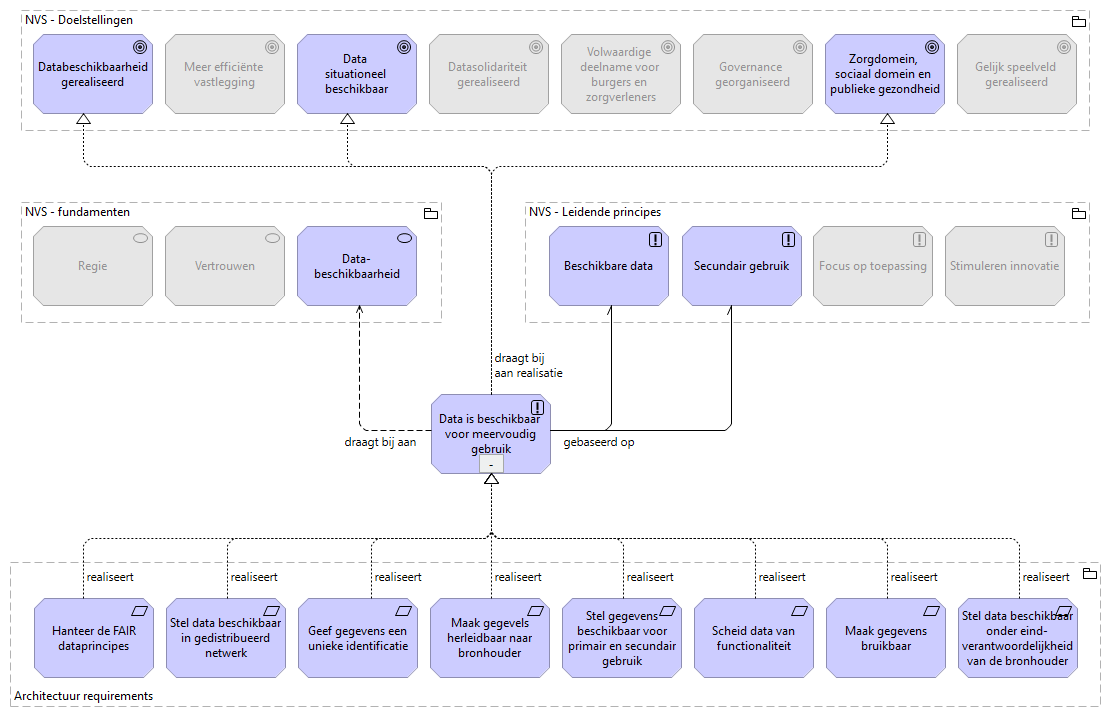
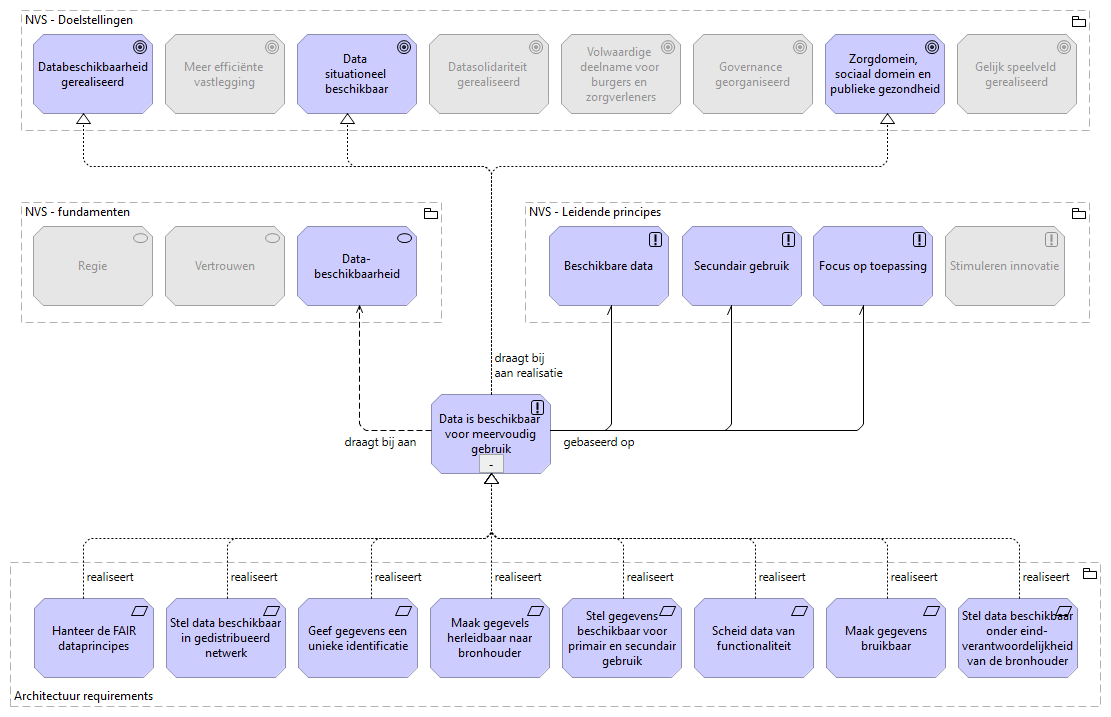
update

Changed region(s): [[0.7345, 0.3068, 0.8569, 0.4296]]

diff --git a/docs/id-2079863d8f734e75a72ec04631d1d512/elements/model.html b/docs/id-2079863d8f734e75a72ec04631d1d512/elements/model.html
@@ -143,11 +143,11 @@
 										dataFoldersContent.push({folderid:"id-45ab5d92025e4c30aed5594f7418aa3f", contentid:"id-9ea5a596cbb647c09b7f8137330e3a77", contenttype:"Folder"});
 										dataFolders.push({id:"id-9ea5a596cbb647c09b7f8137330e3a77", type:"Folder", name:decodeURL("Fundamenten"), documentation:decodeURL("")});
 											dataFoldersContent.push({folderid:"id-9ea5a596cbb647c09b7f8137330e3a77", contentid:"id-32714f74a5b14c5eb363e0e6f0a00e83", contenttype:"Value"});
-												dataElements.push({id:"id-32714f74a5b14c5eb363e0e6f0a00e83", type:"Value", specialization:decodeURL(""), name:decodeURL("Regie"), documentation:decodeURL("Regie+gaat+over+het+vermogen+te+sturen%2C+de+leiding+te+hebben+en+belangrijke+beslissingen+te+nemen.+Dit+is+nodig+om+de+ontwikkeling+van+het+gezondheidsinformatiestelsel+gericht+vorm+te+geven+en+het+vertrouwen+hierin+te+laten+groeien.+Burgers+en+zorgverleners+worden+geholpen+in+het+maken+van+bindende+en+samenhangende+afspraken+over+de+verschillende+gebruiksdoelen.+Goede+afspraken+leiden+tot+%28her%29gebruik+van+data.+Open+specificaties%2C+zoals+standaarden+en+normen%2C+vormen+de+inhoud+van+deze+afspraken.+Zo+nodig+worden+afspraken+in+een+wet+opgenomen.+Het+is+daarbij+van+belang+dat%3A%0D%0A%0D%0A-+Gebruikers+van+data+bekend+zijn+met+de+spelregels+waardoor+vertrouwen+geborgd+is%3B%0D%0A-+Afspraken+eenduidig%2C+inzichtelijk+en+geborgd+zijn+in+het+gezondheidsinformatiestelsel%3B%0D%0A-+Transparantie+en+controle+over+het+hebben+van+data%2C+het+delen+van+data+en+het+gebruik+ervan+zijn+georganiseerd%3B%0D%0A-+Effectieve%2C+gebruiksgerichte+toepassingen+worden+ontwikkeld+op+basis+van+open+specificaties.%0D%0A%0D%0ANaleving+en+totstandkoming+van+de+gewenste+afspraken+wordt+geborgd+op+het+juiste+niveau+%28sectoraal%2C+lokaal%2C+regionaal%2C+landelijk%2C+Europees+of+wereldwijd%29.+Regie+kan+dan+ook+niet+bestaan+zonder+governance.+Governance+gaat+over+rollen%2C+taken+en+verantwoordelijkheden.+Bij+de+ontwikkeling+van+het+gezondheidsinformatiestelsel+ontwikkelt+de+governance+zich+mee.+De+governance+weerspiegelt+enerzijds+het+zorgstelsel.+Anderzijds+zijn+specifieke+entiteiten+nodig+vanuit+de+ontwikkeling+van+het+gezondheidsinformatiestelsel+en+de+taken+die+daarvoor+nodig+zijn.+Een+heldere+en+daadkrachtige+governance+die+%28be%29sturing+en+leidinggeeft+aan+de+inrichting+en+ontwikkeling+van+het+gezondheidsinformatiestelsel+is+noodzakelijk.%0D%0A%0D%0ABron%3A+https%3A%2F%2Fwww.rijksoverheid.nl%2Fdocumenten%2Fpublicaties%2F2023%2F03%2F31%2Fnationale-visie-en-strategie-gezondheidsinformatiestelsel")});
+												dataElements.push({id:"id-32714f74a5b14c5eb363e0e6f0a00e83", type:"Value", specialization:decodeURL(""), name:decodeURL("Regie"), documentation:decodeURL("Regie+gaat+over+het+vermogen+te+sturen%2C+de+leiding+te+hebben+en+belangrijke+beslissingen+te+nemen.+Dit+is+nodig+om+de+ontwikkeling+van+het+gezondheidsinformatiestelsel+gericht+vorm+te+geven+en+het+vertrouwen+hierin+te+laten+groeien.+Burgers+en+zorgverleners+worden+geholpen+in+het+maken+van+bindende+en+samenhangende+afspraken+over+de+verschillende+gebruiksdoelen.+Goede+afspraken+leiden+tot+%28her%29gebruik+van+data.+Open+specificaties%2C+zoals+standaarden+en+normen%2C+vormen+de+inhoud+van+deze+afspraken.+Zo+nodig+worden+afspraken+in+een+wet+opgenomen.+Het+is+daarbij+van+belang+dat%3A%0D%0A%0D%0ABron%3A+https%3A%2F%2Fwww.rijksoverheid.nl%2Fdocumenten%2Fpublicaties%2F2023%2F03%2F31%2Fnationale-visie-en-strategie-gezondheidsinformatiestelsel")});
 											dataFoldersContent.push({folderid:"id-9ea5a596cbb647c09b7f8137330e3a77", contentid:"id-33e201ad5dea485fb675f42dced492aa", contenttype:"Value"});
-												dataElements.push({id:"id-33e201ad5dea485fb675f42dced492aa", type:"Value", specialization:decodeURL(""), name:decodeURL("Vertrouwen"), documentation:decodeURL("Zorgverleners+leveren+zorg+vanuit+een+afhankelijkheidsrelatie+met+de+pati%C3%ABnt+of+cli%C3%ABnt+en+daarin+is+vertrouwen+van+cruciaal+belang.+Vertrouwen+is+daarom+ook+een+belangrijk+fundament+van+het+gezondheidsinformatiestelsel.+Daarin+is+vertrouwen+tweeledig%3A+het+gaat+om+vertrouwen+in+elkaar+en+vertrouwen+in+de+kwaliteit+van+data+%28betrouwbaarheid%29.%0D%0A%0D%0AVertrouwen+betekent+dat+personen+en+partijen+elkaar+vertrouwen+en+vertrouwen+hebben+in+het+zorgproces.+Bij+goede+zorg+is+er+sprake+van+vertrouwen+tussen+burger+en+zorgverlener+en+tussen+zorgverleners+onderling.+Netwerkzorg+vergt+dat+het+vertrouwen+tussen+burger+en+zorgverlener+er+ook+buiten+het+directe+contact+moet+zijn.+Namelijk+in+het+gehele+netwerk+van+de+zorg+rondom+die+burger+en+niet+alleen+in+een+individuele+zorgverlener+of+zorgaanbieder.%0D%0A%0D%0ABetrouwbaarheid+gaat+over+het+vertrouwen+in+de+data+zelf.+Over+vertrouwen+in+de+kwaliteit+van+data+en+adequate+toepassing+hiervan+binnen+applicaties.+Het+ontbreken+van+vertrouwen+in+de+data+leidt+tot+onvoldoende+gebruik%2C+wat+het+leveren+van+passende+zorg+belemmert.+Vertrouwen+in+data+vraagt+om+passende+standaarden%2C+zodat+door+eenheid+van+taal+en+eenheid+van+techniek+iedere+gebruiker+en+iedere+toepassing+kan+vertrouwen+op+de+juistheid+van+de+data.+Een+goede+met+waarborgen+omgeven+architectuur+voor+het+delen+van+data+kan+de+verdere+ontwikkeling+van+digitale+toepassingen+faciliteren.%0D%0A%0D%0ABron%3A+https%3A%2F%2Fwww.rijksoverheid.nl%2Fdocumenten%2Fpublicaties%2F2023%2F03%2F31%2Fnationale-visie-en-strategie-gezondheidsinformatiestelsel")});
+												dataElements.push({id:"id-33e201ad5dea485fb675f42dced492aa", type:"Value", specialization:decodeURL(""), name:decodeURL("Vertrouwen"), documentation:decodeURL("Zorgverleners+leveren+zorg+vanuit+een+afhankelijkheidsrelatie+met+de+pati%C3%ABnt+of+cli%C3%ABnt+en+daarin+is+vertrouwen+van+cruciaal+belang.+Vertrouwen+is+daarom+ook+een+belangrijk+fundament+van+het+gezondheidsinformatiestelsel.+Daarin+is+vertrouwen+tweeledig%3A+het+gaat+om+vertrouwen+in+elkaar+en+vertrouwen+in+de+kwaliteit+van+data+%28betrouwbaarheid%29.%0D%0A%0D%0ABron%3A+https%3A%2F%2Fwww.rijksoverheid.nl%2Fdocumenten%2Fpublicaties%2F2023%2F03%2F31%2Fnationale-visie-en-strategie-gezondheidsinformatiestelsel")});
 											dataFoldersContent.push({folderid:"id-9ea5a596cbb647c09b7f8137330e3a77", contentid:"id-627a686420d64655957391a51ac7670e", contenttype:"Value"});
-												dataElements.push({id:"id-627a686420d64655957391a51ac7670e", type:"Value", specialization:decodeURL(""), name:decodeURL("Data-+beschikbaarheid"), documentation:decodeURL("Gezondheidsdata+moet+beschikbaar+zijn+voor+gebruik.+Databeschikbaarheid+omvat+het+beschikbaar%2C+bereikbaar+en+bruikbaar+hebben+van+vastgelegde+gezondheidsdata+van+de+specifieke+informatiebehoefte%2C+met+als+achterliggend+doel+deze+in+te+zetten+voor+preventie%2C+zorg+en+welzijn.+Dit+ten+behoeve+van+alle+vormen+van+%28her%29gebruik%2C+zorgproces-+en+usecase-onafhankelijk+met+nadrukkelijke+waarborgen+voor+pati%C3%ABntveiligheid+en+privacy.+Dit+betreft%3A%0D%0A%0D%0A-+Hergebruik+in+het+primaire+proces%2C+zodat+zorgverleners+benodigde+data+in+het+zorgproces+ook+direct+tot+hun+beschikking+hebben.%0D%0A-+Hergebruik+in+het+secundair+proces%2C+zodat+onderzoekers+op+een+toegankelijke+manier+grote+hoeveelheden+data+tot+hun+beschikking+hebben+en+zodat+beleidsverantwoordelijken+laagdrempelig+inzicht+hebben+in+de+effecten+van+het+gevoerde+beleid%2C+waardoor+adequate+sturing+mogelijk+is.%0D%0A-+Hergebruik+ten+behoeve+van+gezondheid+en+preventie+zodat+burgers%2C+onderzoekers+stelselverantwoordelijken%2C+wettelijke+partijen+en+zorgverleners+%28eigen%29+gezondheidsdata+kunnen+gebruiken+ter+verbetering+van+persoonlijke+en+%28volks%29gezondheid.%0D%0A%0D%0ABron%3A+https%3A%2F%2Fwww.rijksoverheid.nl%2Fdocumenten%2Fpublicaties%2F2023%2F03%2F31%2Fnationale-visie-en-strategie-gezondheidsinformatiestelsel")});
+												dataElements.push({id:"id-627a686420d64655957391a51ac7670e", type:"Value", specialization:decodeURL(""), name:decodeURL("Data-+beschikbaarheid"), documentation:decodeURL("Gezondheidsdata+moet+beschikbaar+zijn+voor+gebruik.+Databeschikbaarheid+omvat+het+beschikbaar%2C+bereikbaar+en+bruikbaar+hebben+van+vastgelegde+gezondheidsdata+van+de+specifieke+informatiebehoefte%2C+met+als+achterliggend+doel+deze+in+te+zetten+voor+preventie%2C+zorg+en+welzijn.+Dit+ten+behoeve+van+alle+vormen+van+%28her%29gebruik%2C+zorgproces-+en+usecase-onafhankelijk+met+nadrukkelijke+waarborgen+voor+pati%C3%ABntveiligheid+en+privacy.+Dit+betreft%3A%0D%0A%0D%0ABron%3A+https%3A%2F%2Fwww.rijksoverheid.nl%2Fdocumenten%2Fpublicaties%2F2023%2F03%2F31%2Fnationale-visie-en-strategie-gezondheidsinformatiestelsel")});
 
 										dataFoldersContent.push({folderid:"id-45ab5d92025e4c30aed5594f7418aa3f", contentid:"id-052d492cebfb4cbfa0475d8eaddb96af", contenttype:"Folder"});
 										dataFolders.push({id:"id-052d492cebfb4cbfa0475d8eaddb96af", type:"Folder", name:decodeURL("Leidende+principes"), documentation:decodeURL("")});
@@ -167,7 +167,7 @@
 											dataFoldersContent.push({folderid:"id-821a29cb67cb4fdcbe4506d3f237e32c", contentid:"id-70136f9cc64a4142ade7672e18c69990", contenttype:"Goal"});
 												dataElements.push({id:"id-70136f9cc64a4142ade7672e18c69990", type:"Goal", specialization:decodeURL(""), name:decodeURL("Doelstelling+2%3A+Meer+effici%C3%ABnte+vastlegging"), documentation:decodeURL("Vastlegging+van+gegevens+is+effici%C3%ABnter+voor+een+minimale+administratieve+last.%0D%0A%0D%0ABron%3A+https%3A%2F%2Fwww.rijksoverheid.nl%2Fdocumenten%2Fpublicaties%2F2024%2F10%2F31%2Fnationale-strategie")});
 											dataFoldersContent.push({folderid:"id-821a29cb67cb4fdcbe4506d3f237e32c", contentid:"id-6fa642cb0145416c93cf7effd3d1e0b5", contenttype:"Goal"});
-												dataElements.push({id:"id-6fa642cb0145416c93cf7effd3d1e0b5", type:"Goal", specialization:decodeURL(""), name:decodeURL("Doelstelling+3%3A+Data+situationeel+beschikbaar"), documentation:decodeURL("Data+zijn+situationeel+beschikbaar+door+een+breed+gebruikt+%28landelijk%29+dekkend+netwerk+van+infrastructuren+en+generieke+functies")});
+												dataElements.push({id:"id-6fa642cb0145416c93cf7effd3d1e0b5", type:"Goal", specialization:decodeURL(""), name:decodeURL("Doelstelling+3%3A+Data+situationeel+beschikbaar"), documentation:decodeURL("Data+zijn+situationeel+beschikbaar+door+een+breed+gebruikt+%28landelijk%29+dekkend+netwerk+van+infrastructuren+en+generieke+functies.%0D%0A%0D%0ABron%3A+https%3A%2F%2Fwww.rijksoverheid.nl%2Fdocumenten%2Fpublicaties%2F2024%2F10%2F31%2Fnationale-strategie")});
 											dataFoldersContent.push({folderid:"id-821a29cb67cb4fdcbe4506d3f237e32c", contentid:"id-9eec9185a498415a8638b8f98fff6e5c", contenttype:"Goal"});
 												dataElements.push({id:"id-9eec9185a498415a8638b8f98fff6e5c", type:"Goal", specialization:decodeURL(""), name:decodeURL("Doelstelling+4%3A+Datasolidariteit+gerealiseerd"), documentation:decodeURL("Datasolidariteit+is+met+inzet+op+vertrouwen+gerealiseerd.%0D%0A%0D%0ABron%3A+https%3A%2F%2Fwww.rijksoverheid.nl%2Fdocumenten%2Fpublicaties%2F2024%2F10%2F31%2Fnationale-strategie")});
 											dataFoldersContent.push({folderid:"id-821a29cb67cb4fdcbe4506d3f237e32c", contentid:"id-f4922c5a003c4808a337e37da43fec33", contenttype:"Goal"});
@@ -350,6 +350,8 @@
 										dataRelationships.push({id:"id-82e1c9f96d0d4b2781a05ef7503915ad", type:"CompositionRelationship", specialization:decodeURL(""), name:decodeURL(""), documentation:decodeURL(""), sourceid:"id-1e78daf074a744b2ade967c98018dc91", targetid:"id-1ad3402e7d364c3b8a51debd9de9f0d9"});
 									dataFoldersContent.push({folderid:"id-f81b3785dbd041569ea394365d737b47", contentid:"id-87f86aa41a704ff7a6b66f5873e8c58d", contenttype:"CompositionRelationship"});
 										dataRelationships.push({id:"id-87f86aa41a704ff7a6b66f5873e8c58d", type:"CompositionRelationship", specialization:decodeURL(""), name:decodeURL(""), documentation:decodeURL(""), sourceid:"id-1e78daf074a744b2ade967c98018dc91", targetid:"id-a373cd29ffa1451a801c409319c8fb37"});
+									dataFoldersContent.push({folderid:"id-f81b3785dbd041569ea394365d737b47", contentid:"id-85db986b6e284e488033d804bfcccf77", contenttype:"AssociationRelationship"});
+										dataRelationships.push({id:"id-85db986b6e284e488033d804bfcccf77", type:"AssociationRelationship", specialization:decodeURL(""), name:decodeURL("gebaseerd+op"), documentation:decodeURL(""), sourceid:"id-4dd0ddee3e5745f0804be3d45a2a325e", targetid:"id-987e2f60d0714ee6b20b7f538390b985"});
 
 								dataFoldersContent.push({folderid:"id-2079863d8f734e75a72ec04631d1d512", contentid:"id-3e4c3c5e6bfb42d7acb7a29c4f5d810a", contenttype:"Folder"});
 								dataFolders.push({id:"id-3e4c3c5e6bfb42d7acb7a29c4f5d810a", type:"Folder", name:decodeURL("Views"), documentation:decodeURL("")});
@@ -442,6 +444,7 @@
 																			dataViewsContent.push({viewid:"id-1c25e08a79664f6cb59883ac2bcd8070", contentid:"id-9c1407c2409a4eacbc66519615cca6f1", contenttype:"RealizationRelationship"});
 																			dataViewsContent.push({viewid:"id-1c25e08a79664f6cb59883ac2bcd8070", contentid:"id-ccd4ea94b5a441aeb435f6a7bd69bf28", contenttype:"RealizationRelationship"});
 																			dataViewsContent.push({viewid:"id-1c25e08a79664f6cb59883ac2bcd8070", contentid:"id-98ddb9396685443ab716d7092072c5b9", contenttype:"RealizationRelationship"});
+																			dataViewsContent.push({viewid:"id-1c25e08a79664f6cb59883ac2bcd8070", contentid:"id-85db986b6e284e488033d804bfcccf77", contenttype:"AssociationRelationship"});
 
 													
 																			dataViewsContent.push({viewid:"id-1c25e08a79664f6cb59883ac2bcd8070", contentid:"id-87f86aa41a704ff7a6b66f5873e8c58d", contenttype:"CompositionRelationship"});
@@ -492,6 +495,9 @@
 
 													
 
+
+									dataFoldersContent.push({folderid:"id-3e4c3c5e6bfb42d7acb7a29c4f5d810a", contentid:"id-cbc9cdff7af24447bc8886ad3ef5f2ee", contenttype:"Folder"});
+									dataFolders.push({id:"id-cbc9cdff7af24447bc8886ad3ef5f2ee", type:"Folder", name:decodeURL("99.+Metamodel+bouwblok"), documentation:decodeURL("")});
 
 
 

diff --git a/docs/id-2079863d8f734e75a72ec04631d1d512/elements/id-85db986b6e284e488033d804bfcccf77.html b/docs/id-2079863d8f734e75a72ec04631d1d512/elements/id-85db986b6e284e488033d804bfcccf77.html
@@ -2,7 +2,7 @@
 <html class="frame" lang="en">
 <head>
 	<meta http-equiv="Content-Type" content="text/html;charset=utf-8">
-	<title>NVS - fundamenten</title>
+	<title>gebaseerd op</title>
 
 	<!-- JQUERY -->
 	<script type="text/javascript" src="../../lib/jquery/jquery.min.js"></script>
@@ -21,11 +21,11 @@
 
 		<div class="panel-heading root-panel-heading">
             <!-- Name -->
-               <b>NVS - fundamenten</b>
+               <b>gebaseerd op</b>
 
             <!-- If a View with Viewpoint -->
-			   (<span class="i18n-elementtype-Grouping"></span>)
-			   <a class="glyphicon glyphicon-info-sign" id="hint-Grouping" target="hint"></a>
+			   (<span class="i18n-elementtype-AssociationRelationship"></span>)
+			   <a class="glyphicon glyphicon-info-sign" id="hint-AssociationRelationship" target="hint"></a>
 		</div>
 
 		<div class="panel-body root-panel-body">
@@ -48,6 +48,18 @@
 				<!-- Tab panes -->
 				<div class="tab-content">
 					<div role="tabpanel" class="tab-pane active" id="documentation">
+							<br>
+							<b class="i18n-relation-source"></b>
+								<a href="../elements/id-4dd0ddee3e5745f0804be3d45a2a325e.html" target="element">
+									GIS01 - Data is beschikbaar voor meervoudig gebruik
+								</a>
+							<br>
+							<b class="i18n-relation-target"></b>
+								<a href="../elements/id-987e2f60d0714ee6b20b7f538390b985.html" target="element">
+									Focus op toepassing
+								</a>
+							<br>
+							<br>
 						<div class="convertlinks documentation" style="white-space:pre-wrap"></div>
 					</div>
 					<div role="tabpanel" class="tab-pane" id="properties">
@@ -89,22 +101,6 @@
 								</tr>
 							</thead>
 							<tbody>
-									<tr>
-											<td><a href="../elements/id-e295417002b5489d8687eaa7511a8b98.html" target="element" title=""></a></td>
-											<td><span class="i18n-elementtype-CompositionRelationship" /></td>
-											<td><a href="../elements/id-a8069c278b61464d981fbb55fe1820f2.html" target="element"> NVS - fundamenten</a></td>
-											<td><a href="../elements/id-627a686420d64655957391a51ac7670e.html" target="element"> Data- beschikbaarheid</a></td>
-										</tr><tr>
-											<td><a href="../elements/id-72166c5a9dd54ea7b9f9fc449d4d71c0.html" target="element" title=""></a></td>
-											<td><span class="i18n-elementtype-CompositionRelationship" /></td>
-											<td><a href="../elements/id-a8069c278b61464d981fbb55fe1820f2.html" target="element"> NVS - fundamenten</a></td>
-											<td><a href="../elements/id-33e201ad5dea485fb675f42dced492aa.html" target="element"> Vertrouwen</a></td>
-										</tr><tr>
-											<td><a href="../elements/id-2bfc103dcc0043068e6efc0210df748b.html" target="element" title=""></a></td>
-											<td><span class="i18n-elementtype-CompositionRelationship" /></td>
-											<td><a href="../elements/id-a8069c278b61464d981fbb55fe1820f2.html" target="element"> NVS - fundamenten</a></td>
-											<td><a href="../elements/id-32714f74a5b14c5eb363e0e6f0a00e83.html" target="element"> Regie</a></td>
-										</tr>
 							</tbody>
 						</table>
 					</div>

diff --git a/docs/id-2079863d8f734e75a72ec04631d1d512/elements/id-32714f74a5b14c5eb363e0e6f0a00e83.html b/docs/id-2079863d8f734e75a72ec04631d1d512/elements/id-32714f74a5b14c5eb363e0e6f0a00e83.html
@@ -50,13 +50,6 @@
 					<div role="tabpanel" class="tab-pane active" id="documentation">
 						<div class="convertlinks documentation" style="white-space:pre-wrap">Regie gaat over het vermogen te sturen, de leiding te hebben en belangrijke beslissingen te nemen. Dit is nodig om de ontwikkeling van het gezondheidsinformatiestelsel gericht vorm te geven en het vertrouwen hierin te laten groeien. Burgers en zorgverleners worden geholpen in het maken van bindende en samenhangende afspraken over de verschillende gebruiksdoelen. Goede afspraken leiden tot (her)gebruik van data. Open specificaties, zoals standaarden en normen, vormen de inhoud van deze afspraken. Zo nodig worden afspraken in een wet opgenomen. Het is daarbij van belang dat:
 
-- Gebruikers van data bekend zijn met de spelregels waardoor vertrouwen geborgd is;
-- Afspraken eenduidig, inzichtelijk en geborgd zijn in het gezondheidsinformatiestelsel;
-- Transparantie en controle over het hebben van data, het delen van data en het gebruik ervan zijn georganiseerd;
-- Effectieve, gebruiksgerichte toepassingen worden ontwikkeld op basis van open specificaties.
-
-Naleving en totstandkoming van de gewenste afspraken wordt geborgd op het juiste niveau (sectoraal, lokaal, regionaal, landelijk, Europees of wereldwijd). Regie kan dan ook niet bestaan zonder governance. Governance gaat over rollen, taken en verantwoordelijkheden. Bij de ontwikkeling van het gezondheidsinformatiestelsel ontwikkelt de governance zich mee. De governance weerspiegelt enerzijds het zorgstelsel. Anderzijds zijn specifieke entiteiten nodig vanuit de ontwikkeling van het gezondheidsinformatiestelsel en de taken die daarvoor nodig zijn. Een heldere en daadkrachtige governance die (be)sturing en leidinggeeft aan de inrichting en ontwikkeling van het gezondheidsinformatiestelsel is noodzakelijk.
-
 Bron: https://www.rijksoverheid.nl/documenten/publicaties/2023/03/31/nationale-visie-en-strategie-gezondheidsinformatiestelsel</div>
 					</div>
 					<div role="tabpanel" class="tab-pane" id="properties">

diff --git a/docs/id-2079863d8f734e75a72ec04631d1d512/elements/id-33e201ad5dea485fb675f42dced492aa.html b/docs/id-2079863d8f734e75a72ec04631d1d512/elements/id-33e201ad5dea485fb675f42dced492aa.html
@@ -50,10 +50,6 @@
 					<div role="tabpanel" class="tab-pane active" id="documentation">
 						<div class="convertlinks documentation" style="white-space:pre-wrap">Zorgverleners leveren zorg vanuit een afhankelijkheidsrelatie met de pati&#235;nt of cli&#235;nt en daarin is vertrouwen van cruciaal belang. Vertrouwen is daarom ook een belangrijk fundament van het gezondheidsinformatiestelsel. Daarin is vertrouwen tweeledig: het gaat om vertrouwen in elkaar en vertrouwen in de kwaliteit van data (betrouwbaarheid).
 
-Vertrouwen betekent dat personen en partijen elkaar vertrouwen en vertrouwen hebben in het zorgproces. Bij goede zorg is er sprake van vertrouwen tussen burger en zorgverlener en tussen zorgverleners onderling. Netwerkzorg vergt dat het vertrouwen tussen burger en zorgverlener er ook buiten het directe contact moet zijn. Namelijk in het gehele netwerk van de zorg rondom die burger en niet alleen in een individuele zorgverlener of zorgaanbieder.
-
-Betrouwbaarheid gaat over het vertrouwen in de data zelf. Over vertrouwen in de kwaliteit van data en adequate toepassing hiervan binnen applicaties. Het ontbreken van vertrouwen in de data leidt tot onvoldoende gebruik, wat het leveren van passende zorg belemmert. Vertrouwen in data vraagt om passende standaarden, zodat door eenheid van taal en eenheid van techniek iedere gebruiker en iedere toepassing kan vertrouwen op de juistheid van de data. Een goede met waarborgen omgeven architectuur voor het delen van data kan de verdere ontwikkeling van digitale toepassingen faciliteren.
-
 Bron: https://www.rijksoverheid.nl/documenten/publicaties/2023/03/31/nationale-visie-en-strategie-gezondheidsinformatiestelsel</div>
 					</div>
 					<div role="tabpanel" class="tab-pane" id="properties">

diff --git a/docs/id-2079863d8f734e75a72ec04631d1d512/elements/id-19802c35b5814b84a2a5b5c7ea2c30b3.html b/docs/id-2079863d8f734e75a72ec04631d1d512/elements/id-19802c35b5814b84a2a5b5c7ea2c30b3.html
@@ -92,14 +92,14 @@ Bron: https://www.rijksoverheid.nl/documenten/publicaties/2023/03/31/nationale-v
 							</thead>
 							<tbody>
 									<tr>
-											<td><a href="../elements/id-36b7eb3493e74a10b18f6beced1cd914.html" target="element" title=""></a></td>
-											<td><span class="i18n-elementtype-CompositionRelationship" /></td>
-											<td><a href="../elements/id-1e78daf074a744b2ade967c98018dc91.html" target="element"> NVS - Leidende principes</a></td>
-											<td><a href="../elements/id-19802c35b5814b84a2a5b5c7ea2c30b3.html" target="element"> Secundair gebruik</a></td>
-										</tr><tr>
 											<td><a href="../elements/id-9490cffdb4f04b228783093e5787fdeb.html" target="element" title="gebaseerd op">gebaseerd op</a></td>
 											<td><span class="i18n-elementtype-AssociationRelationship" /></td>
 											<td><a href="../elements/id-4dd0ddee3e5745f0804be3d45a2a325e.html" target="element"> GIS01 - Data is beschikbaar voor meervoudig gebruik</a></td>
+											<td><a href="../elements/id-19802c35b5814b84a2a5b5c7ea2c30b3.html" target="element"> Secundair gebruik</a></td>
+										</tr><tr>
+											<td><a href="../elements/id-36b7eb3493e74a10b18f6beced1cd914.html" target="element" title=""></a></td>
+											<td><span class="i18n-elementtype-CompositionRelationship" /></td>
+											<td><a href="../elements/id-1e78daf074a744b2ade967c98018dc91.html" target="element"> NVS - Leidende principes</a></td>
 											<td><a href="../elements/id-19802c35b5814b84a2a5b5c7ea2c30b3.html" target="element"> Secundair gebruik</a></td>
 										</tr>
 							</tbody>

diff --git a/docs/id-2079863d8f734e75a72ec04631d1d512/elements/id-a373cd29ffa1451a801c409319c8fb37.html b/docs/id-2079863d8f734e75a72ec04631d1d512/elements/id-a373cd29ffa1451a801c409319c8fb37.html
@@ -92,14 +92,14 @@ Bron: https://www.rijksoverheid.nl/documenten/publicaties/2023/03/31/nationale-v
 							</thead>
 							<tbody>
 									<tr>
-											<td><a href="../elements/id-87f86aa41a704ff7a6b66f5873e8c58d.html" target="element" title=""></a></td>
-											<td><span class="i18n-elementtype-CompositionRelationship" /></td>
-											<td><a href="../elements/id-1e78daf074a744b2ade967c98018dc91.html" target="element"> NVS - Leidende principes</a></td>
-											<td><a href="../elements/id-a373cd29ffa1451a801c409319c8fb37.html" target="element"> Beschikbare data</a></td>
-										</tr><tr>
 											<td><a href="../elements/id-ebb66b8d8b3a411d8027fea28690c88f.html" target="element" title="gebaseerd op">gebaseerd op</a></td>
 											<td><span class="i18n-elementtype-AssociationRelationship" /></td>
 											<td><a href="../elements/id-4dd0ddee3e5745f0804be3d45a2a325e.html" target="element"> GIS01 - Data is beschikbaar voor meervoudig gebruik</a></td>
+											<td><a href="../elements/id-a373cd29ffa1451a801c409319c8fb37.html" target="element"> Beschikbare data</a></td>
+										</tr><tr>
+											<td><a href="../elements/id-87f86aa41a704ff7a6b66f5873e8c58d.html" target="element" title=""></a></td>
+											<td><span class="i18n-elementtype-CompositionRelationship" /></td>
+											<td><a href="../elements/id-1e78daf074a744b2ade967c98018dc91.html" target="element"> NVS - Leidende principes</a></td>
 											<td><a href="../elements/id-a373cd29ffa1451a801c409319c8fb37.html" target="element"> Beschikbare data</a></td>
 										</tr>
 							</tbody>

diff --git a/docs/id-2079863d8f734e75a72ec04631d1d512/elements/id-627a686420d64655957391a51ac7670e.html b/docs/id-2079863d8f734e75a72ec04631d1d512/elements/id-627a686420d64655957391a51ac7670e.html
@@ -50,10 +50,6 @@
 					<div role="tabpanel" class="tab-pane active" id="documentation">
 						<div class="convertlinks documentation" style="white-space:pre-wrap">Gezondheidsdata moet beschikbaar zijn voor gebruik. Databeschikbaarheid omvat het beschikbaar, bereikbaar en bruikbaar hebben van vastgelegde gezondheidsdata van de specifieke informatiebehoefte, met als achterliggend doel deze in te zetten voor preventie, zorg en welzijn. Dit ten behoeve van alle vormen van (her)gebruik, zorgproces- en usecase-onafhankelijk met nadrukkelijke waarborgen voor pati&#235;ntveiligheid en privacy. Dit betreft:
 
-- Hergebruik in het primaire proces, zodat zorgverleners benodigde data in het zorgproces ook direct tot hun beschikking hebben.
-- Hergebruik in het secundair proces, zodat onderzoekers op een toegankelijke manier grote hoeveelheden data tot hun beschikking hebben en zodat beleidsverantwoordelijken laagdrempelig inzicht hebben in de effecten van het gevoerde beleid, waardoor adequate sturing mogelijk is.
-- Hergebruik ten behoeve van gezondheid en preventie zodat burgers, onderzoekers stelselverantwoordelijken, wettelijke partijen en zorgverleners (eigen) gezondheidsdata kunnen gebruiken ter verbetering van persoonlijke en (volks)gezondheid.
-
 Bron: https://www.rijksoverheid.nl/documenten/publicaties/2023/03/31/nationale-visie-en-strategie-gezondheidsinformatiestelsel</div>
 					</div>
 					<div role="tabpanel" class="tab-pane" id="properties">

diff --git a/docs/id-2079863d8f734e75a72ec04631d1d512/views/id-1c25e08a79664f6cb59883ac2bcd8070.html b/docs/id-2079863d8f734e75a72ec04631d1d512/views/id-1c25e08a79664f6cb59883ac2bcd8070.html
@@ -375,6 +375,13 @@
 																		<td> <a href="../elements/id-4dd0ddee3e5745f0804be3d45a2a325e.html" target="element"> GIS01 - Data is beschikbaar voor meervoudig gebruik </a> </td>
 																		<td> <a href="../elements/id-d5a48276c5ea4d5a85fbc65e01338fbc.html" target="element"> Doelstelling 7: Zorgdomein, sociaal domein en publieke gezondheid </a> </td>
 																	</tr>
+																	<tr>
+																		<td> <a href="../elements/id-85db986b6e284e488033d804bfcccf77.html" target="element"> gebaseerd op </a> </td>
+																		<td> <a href="../elements/id-85db986b6e284e488033d804bfcccf77.html" target="element" class="i18n-elementtype-AssociationRelationship">
+																		</a> </td>
+																		<td> <a href="../elements/id-4dd0ddee3e5745f0804be3d45a2a325e.html" target="element"> GIS01 - Data is beschikbaar voor meervoudig gebruik </a> </td>
+																		<td> <a href="../elements/id-987e2f60d0714ee6b20b7f538390b985.html" target="element"> Focus op toepassing </a> </td>
+																	</tr>
 
 													<!-- DEBUG: Skipping element from class com.archimatetool.model.impl.DiagramModelReference -->
 											

diff --git a/docs/index.html b/docs/index.html
@@ -339,6 +339,10 @@
 															<span class="i18n-elementtype-CompositionRelationship"></span>
 														(NVS - Leidende principes - Beschikbare data) 
 													</a></li>
+													<li class="tree-element "><a href="id-2079863d8f734e75a72ec04631d1d512/elements/id-85db986b6e284e488033d804bfcccf77.html" target="element">
+															gebaseerd op
+														(GIS01 - Data is beschikbaar voor meervoudig gebruik - Focus op toepassing) 
+													</a></li>
 
 									</ul>
 								</li>
@@ -356,6 +360,9 @@
 													<li class="tree-element  "><a href="id-2079863d8f734e75a72ec04631d1d512/views/id-0a3e50a44d444e50bcafd6a94677940e.html" target="view"> 00. Architectuurprincipes </a></li>
 													<li class="tree-element "><a href="id-2079863d8f734e75a72ec04631d1d512/views/id-1c25e08a79664f6cb59883ac2bcd8070.html" target="view"> GIS01 - Data is beschikbaar voor hergebruik </a></li>
 
+									</ul>
+									</li><li class="tree-folder "><span><i class="glyphicon glyphicon-triangle-right"></i> 99. Metamodel bouwblok </span>
+									<ul>
 									</ul>
 									</li>
 							</ul>

diff --git a/docs/id-2079863d8f734e75a72ec04631d1d512/elements/id-4dd0ddee3e5745f0804be3d45a2a325e.html b/docs/id-2079863d8f734e75a72ec04631d1d512/elements/id-4dd0ddee3e5745f0804be3d45a2a325e.html
@@ -135,6 +135,11 @@ RATIONALE
 											<td><span class="i18n-elementtype-RealizationRelationship" /></td>
 											<td><a href="../elements/id-4dd0ddee3e5745f0804be3d45a2a325e.html" target="element"> GIS01 - Data is beschikbaar voor meervoudig gebruik</a></td>
 											<td><a href="../elements/id-d5a48276c5ea4d5a85fbc65e01338fbc.html" target="element"> Doelstelling 7: Zorgdomein, sociaal domein en publieke gezondheid</a></td>
+										</tr><tr>
+											<td><a href="../elements/id-85db986b6e284e488033d804bfcccf77.html" target="element" title="gebaseerd op">gebaseerd op</a></td>
+											<td><span class="i18n-elementtype-AssociationRelationship" /></td>
+											<td><a href="../elements/id-4dd0ddee3e5745f0804be3d45a2a325e.html" target="element"> GIS01 - Data is beschikbaar voor meervoudig gebruik</a></td>
+											<td><a href="../elements/id-987e2f60d0714ee6b20b7f538390b985.html" target="element"> Focus op toepassing</a></td>
 										</tr>
 									<tr>
 											<td><a href="../elements/id-46748d3818e04afa82ae9dee75f53570.html" target="element" title=""></a></td>

diff --git a/docs/id-2079863d8f734e75a72ec04631d1d512/elements/id-987e2f60d0714ee6b20b7f538390b985.html b/docs/id-2079863d8f734e75a72ec04631d1d512/elements/id-987e2f60d0714ee6b20b7f538390b985.html
@@ -96,6 +96,11 @@ Bron: https://www.rijksoverheid.nl/documenten/publicaties/2023/03/31/nationale-v
 											<td><span class="i18n-elementtype-CompositionRelationship" /></td>
 											<td><a href="../elements/id-1e78daf074a744b2ade967c98018dc91.html" target="element"> NVS - Leidende principes</a></td>
 											<td><a href="../elements/id-987e2f60d0714ee6b20b7f538390b985.html" target="element"> Focus op toepassing</a></td>
+										</tr><tr>
+											<td><a href="../elements/id-85db986b6e284e488033d804bfcccf77.html" target="element" title="gebaseerd op">gebaseerd op</a></td>
+											<td><span class="i18n-elementtype-AssociationRelationship" /></td>
+											<td><a href="../elements/id-4dd0ddee3e5745f0804be3d45a2a325e.html" target="element"> GIS01 - Data is beschikbaar voor meervoudig gebruik</a></td>
+											<td><a href="../elements/id-987e2f60d0714ee6b20b7f538390b985.html" target="element"> Focus op toepassing</a></td>
 										</tr>
 							</tbody>
 						</table>

diff --git a/docs/id-2079863d8f734e75a72ec04631d1d512/elements/id-6fa642cb0145416c93cf7effd3d1e0b5.html b/docs/id-2079863d8f734e75a72ec04631d1d512/elements/id-6fa642cb0145416c93cf7effd3d1e0b5.html
@@ -48,7 +48,9 @@
 				<!-- Tab panes -->
 				<div class="tab-content">
 					<div role="tabpanel" class="tab-pane active" id="documentation">
-						<div class="convertlinks documentation" style="white-space:pre-wrap">Data zijn situationeel beschikbaar door een breed gebruikt (landelijk) dekkend netwerk van infrastructuren en generieke functies</div>
+						<div class="convertlinks documentation" style="white-space:pre-wrap">Data zijn situationeel beschikbaar door een breed gebruikt (landelijk) dekkend netwerk van infrastructuren en generieke functies.
+
+Bron: https://www.rijksoverheid.nl/documenten/publicaties/2024/10/31/nationale-strategie</div>
 					</div>
 					<div role="tabpanel" class="tab-pane" id="properties">
 						<table class="table table-striped table-hover table-condensed">
